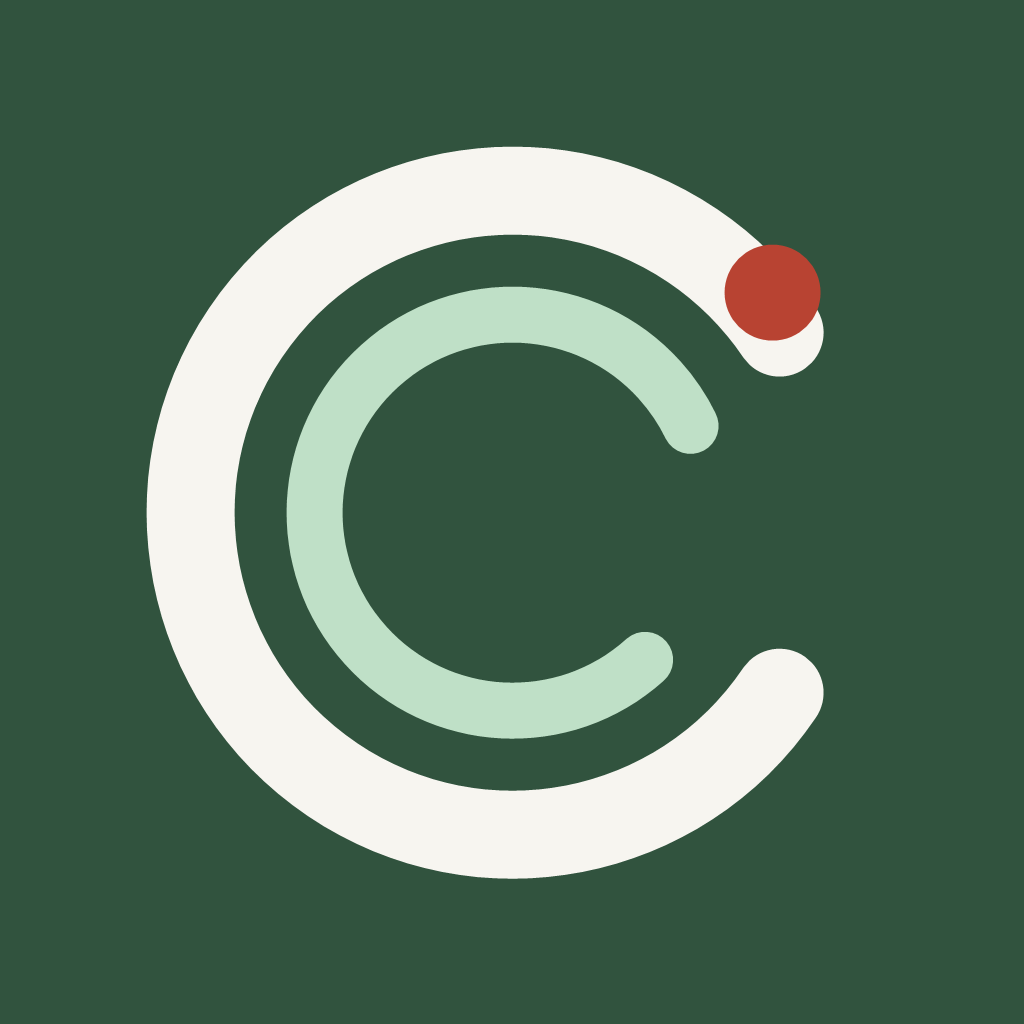
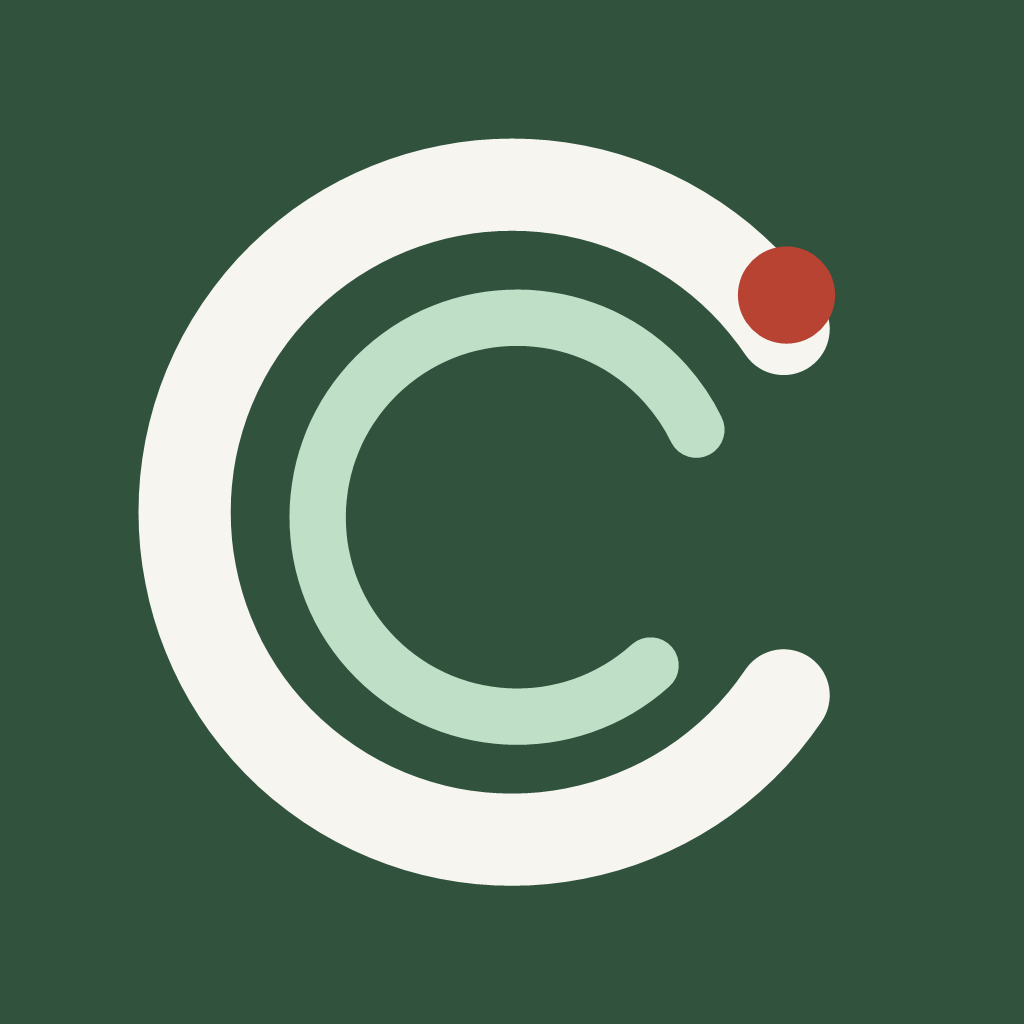
Add direct backup export, reminders, and refined splash
Save backup JSON directly to Android Downloads, show a success toast,
and add one optional local reminder per activity. Refresh native splash
and adaptive icon assets.

diff --git a/App.tsx b/App.tsx
@@ -1,7 +1,7 @@
 import DateTimePicker, { DateTimePickerAndroid } from '@react-native-community/datetimepicker';
 import { StatusBar } from 'expo-status-bar';
 import { useCallback, useEffect, useMemo, useState } from 'react';
-import { Appearance, FlatList, KeyboardAvoidingView, Modal, Platform, Pressable, ScrollView, StyleSheet, Text, TextInput, View } from 'react-native';
+import { Appearance, FlatList, KeyboardAvoidingView, Modal, Platform, Pressable, ScrollView, StyleSheet, Text, TextInput, ToastAndroid, View } from 'react-native';
 import { SafeAreaProvider, SafeAreaView } from 'react-native-safe-area-context';
 import Svg, { Circle, Path, Rect } from 'react-native-svg';
 
@@ -10,6 +10,7 @@ import { mergeActivities } from './src/backup';
 import { exportBackup, importBackup } from './src/backup-file';
 import { resetCopy } from './src/interaction-copy';
 import { loadProfileName, saveProfileName } from './src/profile';
+import { cancelReminder, scheduleReminder } from './src/reminders';
 import { loadActivities, saveActivities } from './src/storage';
 
 type FormMode = 'add' | 'edit';
@@ -34,8 +35,10 @@ export default function App() {
   const [editing, setEditing] = useState<Activity | null>(null);
   const [title, setTitle] = useState('');
   const [lastDoneAt, setLastDoneAt] = useState(today);
+  const [reminderAt, setReminderAt] = useState<string | null>(null);
   const [formError, setFormError] = useState('');
   const [iosPickerVisible, setIosPickerVisible] = useState(false);
+  const [iosReminderPickerVisible, setIosReminderPickerVisible] = useState(false);
   const [notice, setNotice] = useState<Notice>(null);
   const [confirm, setConfirm] = useState<Confirm>(null);
 
@@ -59,8 +62,8 @@ export default function App() {
   }, [notice]);
 
   function openSettings() { setProfileDraft(profileName); setSettingsVisible(true); }
-  function openAdd() { setFormMode('add'); setEditing(null); setTitle(''); setLastDoneAt(today); setFormError(''); setFormVisible(true); }
-  function openEdit(item: Activity) { setFormMode('edit'); setEditing(item); setTitle(item.title); setLastDoneAt(item.lastDoneAt); setFormError(''); setFormVisible(true); }
+  function openAdd() { setFormMode('add'); setEditing(null); setTitle(''); setLastDoneAt(today); setReminderAt(null); setFormError(''); setFormVisible(true); }
+  function openEdit(item: Activity) { setFormMode('edit'); setEditing(item); setTitle(item.title); setLastDoneAt(item.lastDoneAt); setReminderAt(item.reminderAt ?? null); setFormError(''); setFormVisible(true); }
 
   async function saveProfile() {
     try {
@@ -71,8 +74,11 @@ export default function App() {
       setNotice({ message: next ? 'Profil lokal disimpan.' : 'Nama profil dihapus.', tone: 'success' });
     } catch { setNotice({ message: 'Profil belum dapat disimpan.', tone: 'danger' }); }
   }
-  async function shareBackup() {
-    try { await exportBackup(profileName, activities); setNotice({ message: 'File backup siap dibagikan.', tone: 'success' }); }
+  async function saveBackup() {
+    try {
+      const name = await exportBackup(profileName, activities);
+      ToastAndroid.show(`Backup tersimpan di Download: ${name}`, ToastAndroid.LONG);
+    }
     catch { setNotice({ message: 'Backup belum dapat dibuat. Coba lagi.', tone: 'danger' }); }
   }
   async function restoreBackup() {
@@ -86,14 +92,23 @@ export default function App() {
     } catch (error) { setNotice({ message: error instanceof Error ? error.message : 'Backup belum dapat diimpor.', tone: 'danger' }); }
   }
   async function submit() {
-    const errors = validateActivityInput(title, lastDoneAt, today);
-    if (errors.title || errors.lastDoneAt) { setFormError(errors.title ?? errors.lastDoneAt ?? 'Periksa lagi isianmu.'); return; }
+    const errors = validateActivityInput(title, lastDoneAt, today, reminderAt ?? undefined);
+    if (errors.title || errors.lastDoneAt || errors.reminderAt) { setFormError(errors.title ?? errors.lastDoneAt ?? errors.reminderAt ?? 'Periksa lagi isianmu.'); return; }
     const now = new Date().toISOString();
-    const next = editing
-      ? activities.map((item) => item.id === editing.id ? { ...item, title: title.trim(), lastDoneAt, updatedAt: now } : item)
-      : [...activities, { id: `${Date.now()}-${Math.random().toString(36).slice(2)}`, title: title.trim(), lastDoneAt, createdAt: now, updatedAt: now }];
-    try { await persist(next); setFormVisible(false); setNotice({ message: editing ? 'Aktivitas diperbarui.' : 'Aktivitas ditambahkan.', tone: 'success' }); }
-    catch { setFormError('Perubahan belum dapat disimpan. Coba lagi.'); }
+    const id = editing?.id ?? `${Date.now()}-${Math.random().toString(36).slice(2)}`;
+    let notificationId: string | undefined;
+    try {
+      if (reminderAt) notificationId = await scheduleReminder(title.trim(), reminderAt, id);
+      const nextActivity: Activity = { id, title: title.trim(), lastDoneAt, createdAt: editing?.createdAt ?? now, updatedAt: now, ...(reminderAt ? { reminderAt, notificationId } : {}) };
+      const next = editing ? activities.map((item) => item.id === id ? nextActivity : item) : [...activities, nextActivity];
+      await persist(next);
+      try { await cancelReminder(editing?.notificationId); } catch { /* The new reminder is already saved. */ }
+      setFormVisible(false);
+      setNotice({ message: editing ? 'Aktivitas diperbarui.' : 'Aktivitas ditambahkan.', tone: 'success' });
+    } catch (error) {
+      if (notificationId) await cancelReminder(notificationId);
+      setFormError(error instanceof Error ? error.message : 'Perubahan belum dapat disimpan. Coba lagi.');
+    }
   }
   function chooseDate() {
     const value = fromCalendarDate(lastDoneAt);
@@ -103,28 +118,49 @@ export default function App() {
     }
     setIosPickerVisible(true);
   }
+  function chooseReminder() {
+    const value = reminderAt ? new Date(reminderAt) : nextReminderDate();
+    if (Platform.OS === 'android') {
+      DateTimePickerAndroid.open({ value, mode: 'date', minimumDate: new Date(), onValueChange: (_, date) => {
+        if (!date) return;
+        DateTimePickerAndroid.open({ value: date, mode: 'time', onValueChange: (_, time) => {
+          if (!time) return;
+          setReminderAt(new Date(date.getFullYear(), date.getMonth(), date.getDate(), time.getHours(), time.getMinutes()).toISOString());
+        }});
+      }});
+      return;
+    }
+    setIosReminderPickerVisible(true);
+  }
   function requestReset(item: Activity) {
     const copy = resetCopy(item.title);
     setConfirm({ title: copy.confirmTitle, body: copy.confirmBody, action: copy.confirmAction, tone: 'forest', onConfirm: () => void reset(item, copy.success) });
   }
   async function reset(item: Activity, message: string) {
-    const previousDate = item.lastDoneAt;
     setConfirm(null);
     try {
-      await persist(activities.map((entry) => entry.id === item.id ? { ...entry, lastDoneAt: today, updatedAt: new Date().toISOString() } : entry));
-      setNotice({ message, tone: 'success', undo: () => void undoReset(item.id, previousDate) });
+      await cancelReminder(item.notificationId);
+      await persist(activities.map((entry) => entry.id === item.id ? { ...entry, lastDoneAt: today, updatedAt: new Date().toISOString(), reminderAt: undefined, notificationId: undefined } : entry));
+      setNotice({ message, tone: 'success', undo: () => void undoReset(item) });
     } catch { setNotice({ message: 'Catatan belum dapat disimpan. Coba lagi.', tone: 'danger' }); }
   }
-  async function undoReset(id: string, previousDate: string) {
+  async function undoReset(previous: Activity) {
+    let notificationId: string | undefined;
     try {
-      await persist(activities.map((item) => item.id === id ? { ...item, lastDoneAt: previousDate, updatedAt: new Date().toISOString() } : item));
+      const reminderAt = previous.reminderAt && new Date(previous.reminderAt) > new Date() ? previous.reminderAt : undefined;
+      notificationId = reminderAt ? await scheduleReminder(previous.title, reminderAt, previous.id) : undefined;
+      const restored: Activity = { ...previous, updatedAt: new Date().toISOString(), ...(reminderAt ? { reminderAt, notificationId } : { reminderAt: undefined, notificationId: undefined }) };
+      await persist(activities.map((item) => item.id === previous.id ? restored : item));
       setNotice({ message: 'Tanggal sebelumnya dipulihkan.', tone: 'success' });
-    } catch { setNotice({ message: 'Undo belum dapat disimpan.', tone: 'danger' }); }
+    } catch {
+      if (notificationId) await cancelReminder(notificationId);
+      setNotice({ message: 'Undo belum dapat disimpan.', tone: 'danger' });
+    }
   }
   function requestDelete(item: Activity) { setConfirm({ title: 'Hapus aktivitas?', body: `Hapus “${item.title}”? Tindakan ini tidak dapat dibatalkan.`, action: 'Hapus aktivitas', tone: 'coral', onConfirm: () => void remove(item.id) }); }
   async function remove(id: string) {
     setConfirm(null);
-    try { await persist(activities.filter((item) => item.id !== id)); setNotice({ message: 'Aktivitas dihapus.', tone: 'danger' }); }
+    try { const item = activities.find((activity) => activity.id === id); await cancelReminder(item?.notificationId); await persist(activities.filter((item) => item.id !== id)); setNotice({ message: 'Aktivitas dihapus.', tone: 'danger' }); }
     catch { setNotice({ message: 'Aktivitas belum dapat dihapus. Coba lagi.', tone: 'danger' }); }
   }
 
@@ -140,9 +176,9 @@ export default function App() {
     {status === 'error' ? <State title="Catatan belum bisa dibaca" copy="Data tidak dihapus. Coba muat ulang dulu." colors={colors} action="Muat ulang" onAction={() => void restore()} /> : <FlatList data={sorted} keyExtractor={(item) => item.id} contentContainerStyle={sorted.length ? styles.list : styles.emptyList} ListHeaderComponent={sorted.length ? <Text style={[styles.section, { color: colors.text }]}>Yang paling lama</Text> : null} ListEmptyComponent={<State title="Belum ada yang dicatat" copy="Tambahkan satu hal yang ingin kamu ingat, kapan terakhir melakukannya." colors={colors} action="Tambah aktivitas" onAction={openAdd} />} renderItem={({ item }) => <ActivityRow item={item} today={today} colors={colors} onEdit={() => openEdit(item)} onReset={() => requestReset(item)} onDelete={() => requestDelete(item)} />} />}
     <Pressable onPress={openAdd} style={[styles.add, { backgroundColor: colors.coral }]}><PlusIcon /><Text style={styles.primaryText}>Tambah aktivitas</Text></Pressable>
     {notice && <NoticeBar notice={notice} colors={colors} onClose={() => setNotice(null)} />}
-    <Modal visible={formVisible} animationType="slide" transparent onRequestClose={() => setFormVisible(false)}><KeyboardAvoidingView style={styles.scrim} behavior="padding"><View style={[styles.sheet, { backgroundColor: colors.bg }]}><Text style={[styles.sheetTitle, { color: colors.text }]}>{formMode === 'add' ? 'Tambah aktivitas' : 'Ubah aktivitas'}</Text><Text style={[styles.label, { color: colors.muted }]}>Apa yang ingin kamu ingat?</Text><TextInput value={title} onChangeText={setTitle} placeholder="Misalnya, Telepon Ibu" placeholderTextColor={colors.muted} style={[styles.input, { color: colors.text, borderColor: colors.border, backgroundColor: colors.surface }]} maxLength={80} autoFocus /><Text style={[styles.label, { color: colors.muted }]}>Kapan terakhir dilakukan?</Text><Pressable onPress={chooseDate} style={[styles.datePicker, { borderColor: colors.border, backgroundColor: colors.surface }]}><Text style={[styles.dateValue, { color: colors.text }]}>{displayDate(lastDoneAt)}</Text><Text style={[styles.dateChange, { color: colors.coral }]}>Pilih tanggal</Text></Pressable><Text style={[styles.hint, { color: colors.muted }]}>Awalnya hari ini. Kamu bisa memilih tanggal sebelumnya.</Text>{Platform.OS === 'ios' && iosPickerVisible && <DateTimePicker value={fromCalendarDate(lastDoneAt)} mode="date" maximumDate={new Date()} display="inline" onValueChange={(_, date) => { if (date) setLastDoneAt(localCalendarDate(date)); }} />}{Boolean(formError) && <Text style={{ color: colors.danger }}>{formError}</Text>}<View style={styles.actions}><Pressable onPress={() => setFormVisible(false)} style={[styles.secondary, { borderColor: colors.border }]}><Text style={{ color: colors.text }}>Batal</Text></Pressable><Pressable onPress={() => void submit()} style={[styles.primary, { backgroundColor: colors.coral }]}><Text style={styles.primaryText}>Simpan</Text></Pressable></View></View></KeyboardAvoidingView></Modal>
+    <Modal visible={formVisible} animationType="slide" transparent onRequestClose={() => setFormVisible(false)}><KeyboardAvoidingView style={styles.scrim} behavior="padding"><View style={[styles.sheet, { backgroundColor: colors.bg }]}><Text style={[styles.sheetTitle, { color: colors.text }]}>{formMode === 'add' ? 'Tambah aktivitas' : 'Ubah aktivitas'}</Text><Text style={[styles.label, { color: colors.muted }]}>Apa yang ingin kamu ingat?</Text><TextInput value={title} onChangeText={setTitle} placeholder="Misalnya, Telepon Ibu" placeholderTextColor={colors.muted} style={[styles.input, { color: colors.text, borderColor: colors.border, backgroundColor: colors.surface }]} maxLength={80} autoFocus /><Text style={[styles.label, { color: colors.muted }]}>Kapan terakhir dilakukan?</Text><Pressable onPress={chooseDate} style={[styles.datePicker, { borderColor: colors.border, backgroundColor: colors.surface }]}><Text style={[styles.dateValue, { color: colors.text }]}>{displayDate(lastDoneAt)}</Text><Text style={[styles.dateChange, { color: colors.coral }]}>Pilih tanggal</Text></Pressable><Text style={[styles.hint, { color: colors.muted }]}>Awalnya hari ini. Kamu bisa memilih tanggal sebelumnya.</Text><Text style={[styles.label, { color: colors.muted }]}>Pengingat lembut (opsional)</Text><Pressable onPress={chooseReminder} style={[styles.datePicker, { borderColor: colors.border, backgroundColor: colors.surface }]}><Text style={[styles.dateValue, { color: colors.text }]}>{reminderAt ? displayReminderDate(reminderAt) : 'Tidak ada pengingat'}</Text><Text style={[styles.dateChange, { color: colors.coral }]}>{reminderAt ? 'Ubah waktu' : 'Pilih waktu'}</Text></Pressable>{reminderAt && <Pressable onPress={() => setReminderAt(null)} style={styles.clearReminder}><Text style={{ color: colors.coral }}>Hapus pengingat</Text></Pressable>}<Text style={[styles.hint, { color: colors.muted }]}>Satu pengingat saja. Tidak berulang dan tidak otomatis untuk aktivitas lain.</Text>{Platform.OS === 'ios' && iosPickerVisible && <DateTimePicker value={fromCalendarDate(lastDoneAt)} mode="date" maximumDate={new Date()} display="inline" onValueChange={(_, date) => { if (date) setLastDoneAt(localCalendarDate(date)); }} />}{Platform.OS === 'ios' && iosReminderPickerVisible && <DateTimePicker value={reminderAt ? new Date(reminderAt) : nextReminderDate()} mode="datetime" minimumDate={new Date()} display="inline" onValueChange={(_, date) => { if (date) setReminderAt(date.toISOString()); }} />}{Boolean(formError) && <Text style={{ color: colors.danger }}>{formError}</Text>}<View style={styles.actions}><Pressable onPress={() => setFormVisible(false)} style={[styles.secondary, { borderColor: colors.border }]}><Text style={{ color: colors.text }}>Batal</Text></Pressable><Pressable onPress={() => void submit()} style={[styles.primary, { backgroundColor: colors.coral }]}><Text style={styles.primaryText}>Simpan</Text></Pressable></View></View></KeyboardAvoidingView></Modal>
     <ConfirmSheet confirm={confirm} colors={colors} onCancel={() => setConfirm(null)} />
-    <Modal visible={settingsVisible} animationType="slide" transparent onRequestClose={() => setSettingsVisible(false)}><KeyboardAvoidingView style={styles.settingsScrim} behavior="padding"><View style={[styles.sheet, styles.settingsSheet, { backgroundColor: colors.bg }]}><ScrollView style={styles.settingsScroll} contentContainerStyle={styles.settingsContent} keyboardShouldPersistTaps="handled"><Text style={[styles.sheetTitle, { color: colors.text }]}>Profil dan backup</Text><Text style={[styles.label, { color: colors.muted }]}>Nama profil lokal</Text><TextInput value={profileDraft} onChangeText={setProfileDraft} placeholder="Misalnya, Raid" placeholderTextColor={colors.muted} style={[styles.input, { color: colors.text, borderColor: colors.border, backgroundColor: colors.surface }]} maxLength={40} /><Text style={[styles.hint, { color: colors.muted }]}>Bukan akun login. Data tetap ada di HP ini sampai kamu membuat backup.</Text><Pressable onPress={() => void shareBackup()} style={[styles.backupAction, { backgroundColor: colors.forest }]}><Text style={styles.primaryText}>Export backup</Text></Pressable><Pressable onPress={() => void restoreBackup()} style={[styles.backupAction, { borderColor: colors.border }]}><Text style={{ color: colors.text, fontWeight: '700' }}>Import dan gabungkan backup</Text></Pressable><Text style={[styles.hint, { color: colors.muted }]}>Import menambahkan data baru dan memakai perubahan terbaru bila ID sama. Data sekarang tidak dihapus.</Text><Text style={[styles.backupWarning, { color: colors.muted }]}>Simpan backup sebelum menghapus aplikasi atau berpindah HP.</Text><View style={styles.themeRow}><Text style={[styles.label, { color: colors.muted }]}>Tema</Text><Pressable accessibilityLabel={darkMode ? 'Gunakan tema terang' : 'Gunakan tema gelap'} onPress={() => setDarkMode((value) => !value)} style={[styles.iconButton, { backgroundColor: colors.surface, borderColor: colors.border }]}>{darkMode ? <SunIcon color={colors.text} /> : <MoonIcon color={colors.text} />}</Pressable></View></ScrollView><ProfileActions colors={colors} onCancel={() => setSettingsVisible(false)} onSave={() => void saveProfile()} /></View></KeyboardAvoidingView></Modal>
+    <Modal visible={settingsVisible} animationType="slide" transparent onRequestClose={() => setSettingsVisible(false)}><KeyboardAvoidingView style={styles.settingsScrim} behavior="padding"><View style={[styles.sheet, styles.settingsSheet, { backgroundColor: colors.bg }]}><ScrollView style={styles.settingsScroll} contentContainerStyle={styles.settingsContent} keyboardShouldPersistTaps="handled"><Text style={[styles.sheetTitle, { color: colors.text }]}>Profil dan backup</Text><Text style={[styles.label, { color: colors.muted }]}>Nama profil lokal</Text><TextInput value={profileDraft} onChangeText={setProfileDraft} placeholder="Misalnya, Raid" placeholderTextColor={colors.muted} style={[styles.input, { color: colors.text, borderColor: colors.border, backgroundColor: colors.surface }]} maxLength={40} /><Text style={[styles.hint, { color: colors.muted }]}>Bukan akun login. Data tetap ada di HP ini sampai kamu membuat backup.</Text><Pressable onPress={() => void saveBackup()} style={[styles.backupAction, { backgroundColor: colors.forest }]}><Text style={styles.primaryText}>Export backup</Text></Pressable><Pressable onPress={() => void restoreBackup()} style={[styles.backupAction, { borderColor: colors.border }]}><Text style={{ color: colors.text, fontWeight: '700' }}>Import dan gabungkan backup</Text></Pressable><Text style={[styles.hint, { color: colors.muted }]}>Import menambahkan data baru dan memakai perubahan terbaru bila ID sama. Data sekarang tidak dihapus.</Text><Text style={[styles.backupWarning, { color: colors.muted }]}>Simpan backup sebelum menghapus aplikasi atau berpindah HP.</Text><View style={styles.themeRow}><Text style={[styles.label, { color: colors.muted }]}>Tema</Text><Pressable accessibilityLabel={darkMode ? 'Gunakan tema terang' : 'Gunakan tema gelap'} onPress={() => setDarkMode((value) => !value)} style={[styles.iconButton, { backgroundColor: colors.surface, borderColor: colors.border }]}>{darkMode ? <SunIcon color={colors.text} /> : <MoonIcon color={colors.text} />}</Pressable></View></ScrollView><ProfileActions colors={colors} onCancel={() => setSettingsVisible(false)} onSave={() => void saveProfile()} /></View></KeyboardAvoidingView></Modal>
   </SafeAreaView></SafeAreaProvider>;
 }
 
@@ -177,9 +213,11 @@ function LeafIcon() { return <Svg width={26} height={26} viewBox="0 0 24 24" fil
 function SunIcon({ color }: { color: string }) { return <Svg width={22} height={22} viewBox="0 0 24 24" fill="none"><Circle cx="12" cy="12" r="3.5" stroke={color} strokeWidth="1.8" /><Path d="M12 2.5v2M12 19.5v2M21.5 12h-2M4.5 12h-2M18.72 5.28l-1.42 1.42M6.7 17.3l-1.42 1.42M18.72 18.72 17.3 17.3M6.7 6.7 5.28 5.28" stroke={color} strokeWidth="1.8" strokeLinecap="round" /></Svg>; }
 function MoonIcon({ color }: { color: string }) { return <Svg width={22} height={22} viewBox="0 0 24 24" fill="none"><Path d="M20.5 15.1A8.5 8.5 0 0 1 8.9 3.5 8.5 8.5 0 1 0 20.5 15.1Z" stroke={color} strokeWidth="1.8" strokeLinecap="round" strokeLinejoin="round" /></Svg>; }
 function greeting(now = new Date()) { const hour = now.getHours(); if (hour < 11) return 'Selamat pagi'; if (hour < 15) return 'Selamat siang'; if (hour < 18) return 'Selamat sore'; return 'Selamat malam'; }
+function nextReminderDate() { const date = new Date(); date.setDate(date.getDate() + 1); date.setHours(9, 0, 0, 0); return date; }
 function fromCalendarDate(value: string) { const [year, month, day] = value.split('-').map(Number); return new Date(year, month - 1, day); }
 function displayDate(value: string) { return new Intl.DateTimeFormat('id-ID', { day: 'numeric', month: 'long', year: 'numeric' }).format(fromCalendarDate(value)); }
+function displayReminderDate(value: string) { return new Intl.DateTimeFormat('id-ID', { day: 'numeric', month: 'long', year: 'numeric', hour: '2-digit', minute: '2-digit' }).format(new Date(value)); }
 
 const styles = StyleSheet.create({
-  app:{flex:1,paddingHorizontal:16,paddingTop:12}, iconButton:{width:48,height:48,borderWidth:1,borderRadius:14,alignItems:'center',justifyContent:'center'}, profileLabel:{fontSize:14,marginTop:5}, loading:{flex:1,alignItems:'center',justifyContent:'center',gap:12},loadingName:{fontFamily:'Georgia',fontSize:28},loadingCopy:{fontSize:14}, header:{paddingTop:18,flexDirection:'row',justifyContent:'space-between',alignItems:'flex-start'}, brand:{flex:1,flexDirection:'row',alignItems:'center',gap:10,paddingRight:12}, eyebrow:{fontSize:10,fontWeight:'700',letterSpacing:1.5}, title:{fontFamily:'Georgia',fontSize:27,lineHeight:31,marginTop:4}, theme:{minHeight:44,paddingHorizontal:12,borderWidth:1,borderRadius:10,justifyContent:'center'}, themeRow:{flexDirection:'row',alignItems:'center',justifyContent:'space-between',marginTop:8}, banner:{borderRadius:24,padding:20,marginTop:24,marginBottom:20,overflow:'hidden'}, bannerLeaf:{position:'absolute',right:18,bottom:18,opacity:.8}, bannerTitle:{fontFamily:'Georgia',fontSize:23,lineHeight:28}, bannerCopy:{fontSize:14,lineHeight:20,marginTop:12,maxWidth:280,opacity:.9}, section:{fontSize:16,fontWeight:'700',marginBottom:10}, list:{paddingBottom:86}, emptyList:{flexGrow:1,justifyContent:'center',paddingBottom:90}, card:{borderWidth:1,borderRadius:16,padding:14,marginBottom:10,flexDirection:'row',gap:12}, cardText:{flex:1,minHeight:94,justifyContent:'center'}, activityHeading:{flexDirection:'row',alignItems:'center',gap:8}, cardTitle:{flexShrink:1,fontSize:16,fontWeight:'700'}, editLink:{fontSize:12,fontWeight:'700'}, lastDone:{flexDirection:'row',alignItems:'center',gap:5,marginTop:6}, date:{fontSize:12}, cardSide:{width:154,alignItems:'flex-end',gap:8}, elapsedRow:{flexDirection:'row',alignItems:'center',gap:5}, elapsed:{fontWeight:'700'}, reset:{minHeight:40,paddingHorizontal:10,borderRadius:9,justifyContent:'center',alignItems:'center',flexDirection:'row',gap:6}, deleteAction:{minHeight:32,flexDirection:'row',alignItems:'center',gap:5}, add:{height:52,borderRadius:14,position:'absolute',bottom:40,left:16,right:16,alignItems:'center',justifyContent:'center',flexDirection:'row',gap:9}, primaryText:{color:'#FFFFFF',fontWeight:'700'}, state:{alignItems:'center',padding:28}, stateTitle:{fontFamily:'Georgia',fontSize:23,textAlign:'center'}, stateCopy:{textAlign:'center',fontSize:14,lineHeight:20,marginTop:10}, stateAction:{marginTop:20,minHeight:48,borderRadius:12,paddingHorizontal:18,justifyContent:'center'}, notice:{position:'absolute',bottom:102,left:16,right:16,borderRadius:12,padding:14,flexDirection:'row',alignItems:'center',gap:12}, noticeText:{flex:1,fontSize:13,lineHeight:18}, noticeAction:{color:'#FFFFFF',fontWeight:'800'}, scrim:{flex:1,justifyContent:'flex-end',backgroundColor:'rgba(0,0,0,.42)'}, settingsScrim:{flex:1,justifyContent:'flex-end',paddingTop:48,backgroundColor:'rgba(0,0,0,.42)'}, settingsSheet:{maxHeight:'100%',flexShrink:1}, settingsScroll:{flexShrink:1}, settingsContent:{gap:8}, centerScrim:{flex:1,justifyContent:'center',padding:24,backgroundColor:'rgba(0,0,0,.42)'}, sheet:{padding:20,borderTopLeftRadius:28,borderTopRightRadius:28,gap:8}, confirmCard:{borderRadius:20,borderWidth:1,padding:20}, sheetTitle:{fontFamily:'Georgia',fontSize:25,marginBottom:12}, confirmTitle:{fontFamily:'Georgia',fontSize:23}, confirmBody:{fontSize:14,lineHeight:20,marginTop:10}, label:{fontSize:13,fontWeight:'700',marginTop:5}, input:{borderWidth:1,borderRadius:12,minHeight:50,paddingHorizontal:14,fontSize:16}, datePicker:{borderWidth:1,borderRadius:12,minHeight:56,paddingHorizontal:14,flexDirection:'row',alignItems:'center',justifyContent:'space-between'}, dateValue:{fontSize:15}, dateChange:{fontSize:13,fontWeight:'700'}, hint:{fontSize:12,lineHeight:17}, backupWarning:{fontSize:12,lineHeight:17,fontWeight:'700',marginTop:8}, backupAction:{minHeight:50,borderRadius:12,borderWidth:1,alignItems:'center',justifyContent:'center',marginTop:8}, actions:{flexDirection:'row',gap:10,marginTop:16}, primary:{flex:1,minHeight:50,borderRadius:12,alignItems:'center',justifyContent:'center'}, secondary:{flex:1,minHeight:50,borderRadius:12,borderWidth:1,alignItems:'center',justifyContent:'center'}
+  app:{flex:1,paddingHorizontal:16,paddingTop:12}, iconButton:{width:48,height:48,borderWidth:1,borderRadius:14,alignItems:'center',justifyContent:'center'}, profileLabel:{fontSize:14,marginTop:5}, loading:{flex:1,alignItems:'center',justifyContent:'center',gap:12},loadingName:{fontFamily:'Georgia',fontSize:28},loadingCopy:{fontSize:14}, header:{paddingTop:18,flexDirection:'row',justifyContent:'space-between',alignItems:'flex-start'}, brand:{flex:1,flexDirection:'row',alignItems:'center',gap:10,paddingRight:12}, eyebrow:{fontSize:10,fontWeight:'700',letterSpacing:1.5}, title:{fontFamily:'Georgia',fontSize:27,lineHeight:31,marginTop:4}, theme:{minHeight:44,paddingHorizontal:12,borderWidth:1,borderRadius:10,justifyContent:'center'}, themeRow:{flexDirection:'row',alignItems:'center',justifyContent:'space-between',marginTop:8}, banner:{borderRadius:24,padding:20,marginTop:24,marginBottom:20,overflow:'hidden'}, bannerLeaf:{position:'absolute',right:18,bottom:18,opacity:.8}, bannerTitle:{fontFamily:'Georgia',fontSize:23,lineHeight:28}, bannerCopy:{fontSize:14,lineHeight:20,marginTop:12,maxWidth:280,opacity:.9}, section:{fontSize:16,fontWeight:'700',marginBottom:10}, list:{paddingBottom:86}, emptyList:{flexGrow:1,justifyContent:'center',paddingBottom:90}, card:{borderWidth:1,borderRadius:16,padding:14,marginBottom:10,flexDirection:'row',gap:12}, cardText:{flex:1,minHeight:94,justifyContent:'center'}, activityHeading:{flexDirection:'row',alignItems:'center',gap:8}, cardTitle:{flexShrink:1,fontSize:16,fontWeight:'700'}, editLink:{fontSize:12,fontWeight:'700'}, lastDone:{flexDirection:'row',alignItems:'center',gap:5,marginTop:6}, date:{fontSize:12}, cardSide:{width:154,alignItems:'flex-end',gap:8}, elapsedRow:{flexDirection:'row',alignItems:'center',gap:5}, elapsed:{fontWeight:'700'}, reset:{minHeight:40,paddingHorizontal:10,borderRadius:9,justifyContent:'center',alignItems:'center',flexDirection:'row',gap:6}, deleteAction:{minHeight:32,flexDirection:'row',alignItems:'center',gap:5}, add:{height:52,borderRadius:14,position:'absolute',bottom:40,left:16,right:16,alignItems:'center',justifyContent:'center',flexDirection:'row',gap:9}, primaryText:{color:'#FFFFFF',fontWeight:'700'}, state:{alignItems:'center',padding:28}, stateTitle:{fontFamily:'Georgia',fontSize:23,textAlign:'center'}, stateCopy:{textAlign:'center',fontSize:14,lineHeight:20,marginTop:10}, stateAction:{marginTop:20,minHeight:48,borderRadius:12,paddingHorizontal:18,justifyContent:'center'}, notice:{position:'absolute',bottom:102,left:16,right:16,borderRadius:12,padding:14,flexDirection:'row',alignItems:'center',gap:12}, noticeText:{flex:1,fontSize:13,lineHeight:18}, noticeAction:{color:'#FFFFFF',fontWeight:'800'}, scrim:{flex:1,justifyContent:'flex-end',backgroundColor:'rgba(0,0,0,.42)'}, settingsScrim:{flex:1,justifyContent:'flex-end',paddingTop:48,backgroundColor:'rgba(0,0,0,.42)'}, settingsSheet:{maxHeight:'100%',flexShrink:1}, settingsScroll:{flexShrink:1}, settingsContent:{gap:8}, centerScrim:{flex:1,justifyContent:'center',padding:24,backgroundColor:'rgba(0,0,0,.42)'}, sheet:{padding:20,borderTopLeftRadius:28,borderTopRightRadius:28,gap:8}, confirmCard:{borderRadius:20,borderWidth:1,padding:20}, sheetTitle:{fontFamily:'Georgia',fontSize:25,marginBottom:12}, confirmTitle:{fontFamily:'Georgia',fontSize:23}, confirmBody:{fontSize:14,lineHeight:20,marginTop:10}, label:{fontSize:13,fontWeight:'700',marginTop:5}, input:{borderWidth:1,borderRadius:12,minHeight:50,paddingHorizontal:14,fontSize:16}, datePicker:{borderWidth:1,borderRadius:12,minHeight:56,paddingHorizontal:14,flexDirection:'row',alignItems:'center',justifyContent:'space-between'}, dateValue:{fontSize:15}, dateChange:{fontSize:13,fontWeight:'700'}, hint:{fontSize:12,lineHeight:17}, clearReminder:{alignSelf:'flex-start',minHeight:36,justifyContent:'center'}, backupWarning:{fontSize:12,lineHeight:17,fontWeight:'700',marginTop:8}, backupAction:{minHeight:50,borderRadius:12,borderWidth:1,alignItems:'center',justifyContent:'center',marginTop:8}, actions:{flexDirection:'row',gap:10,marginTop:16}, primary:{flex:1,minHeight:50,borderRadius:12,alignItems:'center',justifyContent:'center'}, secondary:{flex:1,minHeight:50,borderRadius:12,borderWidth:1,alignItems:'center',justifyContent:'center'}
 });

diff --git a/src/backup-file.ts b/src/backup-file.ts
@@ -1,15 +1,23 @@
 import * as DocumentPicker from 'expo-document-picker';
 import { File, Paths } from 'expo-file-system';
-import * as Sharing from 'expo-sharing';
 
-import { createBackup, readBackup, type Backup } from './backup';
+import { backupFilename, createBackup, readBackup, type Backup } from './backup';
 import type { Activity } from './activity';
 
-export async function exportBackup(profileName: string, activities: Activity[]): Promise<void> {
-  const filename = `terakhir-kali-backup-${new Date().toISOString().slice(0, 10)}.json`;
-  const file = new File(Paths.cache, filename);
-  file.write(createBackup(profileName, activities));
-  await Sharing.shareAsync(file.uri, { mimeType: 'application/json', dialogTitle: 'Simpan backup Terakhir Kali' });
+// Writes the backup JSON straight into the public Download folder, with no picker.
+// ponytail: Android only (MediaStore.Downloads). Add an iOS path (share sheet) when iOS ships.
+export async function exportBackup(profileName: string, activities: Activity[]): Promise<string> {
+  // Loaded on demand: the native module is missing in Expo Go, and importing it eagerly would crash app start.
+  const { FileSystem } = require('react-native-file-access') as typeof import('react-native-file-access');
+  const name = backupFilename();
+  const temp = new File(Paths.cache, name);
+  temp.write(createBackup(profileName, activities));
+  try {
+    await FileSystem.cpExternal(temp.uri, name, 'downloads');
+  } finally {
+    if (temp.exists) temp.delete();
+  }
+  return name;
 }
 
 export async function importBackup(): Promise<Backup | null> {

diff --git a/src/reminders.ts b/src/reminders.ts
@@ -1,0 +1,47 @@
+import * as Notifications from 'expo-notifications';
+import { Platform } from 'react-native';
+
+const channelId = 'gentle-reminders';
+
+Notifications.setNotificationHandler({
+  handleNotification: async () => ({
+    shouldShowBanner: true,
+    shouldShowList: true,
+    shouldPlaySound: false,
+    shouldSetBadge: false,
+  }),
+});
+
+async function permissionGranted(): Promise<boolean> {
+  if (Platform.OS === 'android') {
+    await Notifications.setNotificationChannelAsync(channelId, {
+      name: 'Pengingat lembut',
+      importance: Notifications.AndroidImportance.DEFAULT,
+      sound: null,
+      vibrationPattern: [0],
+    });
+  }
+  const current = await Notifications.getPermissionsAsync();
+  if (current.granted) return true;
+  return (await Notifications.requestPermissionsAsync()).granted;
+}
+
+export async function scheduleReminder(title: string, reminderAt: string, activityId: string): Promise<string> {
+  if (!(await permissionGranted())) throw new Error('Izinkan notifikasi untuk memakai pengingat.');
+  return Notifications.scheduleNotificationAsync({
+    content: {
+      title,
+      body: 'Sudah cukup lama sejak terakhir kali kamu melakukannya.',
+      data: { activityId },
+    },
+    trigger: {
+      type: Notifications.SchedulableTriggerInputTypes.DATE,
+      date: new Date(reminderAt),
+      ...(Platform.OS === 'android' ? { channelId } : {}),
+    },
+  });
+}
+
+export async function cancelReminder(notificationId?: string): Promise<void> {
+  if (notificationId) await Notifications.cancelScheduledNotificationAsync(notificationId);
+}

diff --git a/src/activity.ts b/src/activity.ts
@@ -4,9 +4,11 @@ export type Activity = {
   lastDoneAt: string;
   createdAt: string;
   updatedAt: string;
+  reminderAt?: string;
+  notificationId?: string;
 };
 
-export type ActivityInputErrors = Partial<Record<'title' | 'lastDoneAt', string>>;
+export type ActivityInputErrors = Partial<Record<'title' | 'lastDoneAt' | 'reminderAt', string>>;
 
 const datePattern = /^\d{4}-\d{2}-\d{2}$/;
 
@@ -31,8 +33,8 @@ function completeMonthsBetween(start: Date, end: Date): number {
   return Math.max(0, months);
 }
 
-export function validateActivityInput(title: string, lastDoneAt: string, today: string): ActivityInputErrors {
-  const errors: ActivityInputErrors = {};
+export function validateActivityInput(title: string, lastDoneAt: string, today: string, reminderAt?: string, now = new Date()): ActivityInputErrors {
+  const errors: ActivityInputErrors = {}; 
   const date = parseLocalDate(lastDoneAt);
   const currentDate = parseLocalDate(today);
 
@@ -40,6 +42,9 @@ export function validateActivityInput(title: string, lastDoneAt: string, today: 
   else if (title.trim().length > 80) errors.title = 'Judul kegiatan maksimal 80 karakter.';
   if (!date) errors.lastDoneAt = 'Tanggal tidak valid.';
   else if (currentDate && date > currentDate) errors.lastDoneAt = 'Tanggal tidak boleh melewati hari ini.';
+  if (reminderAt && (Number.isNaN(Date.parse(reminderAt)) || new Date(reminderAt) <= now)) {
+    errors.reminderAt = 'Waktu pengingat harus setelah sekarang.';
+  }
 
   return errors;
 }

diff --git a/src/backup.test.ts b/src/backup.test.ts
@@ -1,6 +1,6 @@
 import assert from 'node:assert/strict';
 import test from 'node:test';
-import { createBackup, mergeActivities, readBackup } from './backup';
+import { backupFilename, createBackup, mergeActivities, readBackup } from './backup';
 import type { Activity } from './activity';
 
 const first: Activity = { id: 'call-mom', title: 'Telepon Ibu', lastDoneAt: '2026-09-01', createdAt: '2026-09-01T00:00:00.000Z', updatedAt: '2026-09-01T00:00:00.000Z' };
@@ -14,6 +14,11 @@ test('creates and reads a versioned backup', () => {
 
 test('rejects an invalid backup', () => {
   assert.throws(() => readBackup('{"version":1}'), /File backup tidak valid/);
+});
+
+test('names backup files by local date and time so repeated exports do not collide', () => {
+  assert.equal(backupFilename(new Date(2026, 9, 4, 7, 5)), 'terakhir-kali-backup-2026-10-04-0705.json');
+  assert.notEqual(backupFilename(new Date(2026, 9, 4, 7, 5)), backupFilename(new Date(2026, 9, 4, 7, 6)));
 });
 
 test('merges by ID and keeps newest record', () => {

diff --git a/src/storage-codec.test.ts b/src/storage-codec.test.ts
@@ -19,6 +19,7 @@ test('decodes valid persisted activities', () => {
   );
 
   assert.equal(activities[0]?.title, 'Telepon Ibu');
+  assert.equal(activities[0]?.reminderAt, undefined);
 });
 
 test('rejects corrupt persisted activities', () => {
@@ -27,5 +28,9 @@ test('rejects corrupt persisted activities', () => {
 });
 
 test('encodes a versioned activity payload', () => {
-  assert.deepEqual(JSON.parse(encodeActivities([])), { version: 1, activities: [] });
+  const activity = {
+    id: 'call-mom', title: 'Telepon Ibu', lastDoneAt: '2026-09-01', createdAt: '2026-09-01T09:00:00.000Z', updatedAt: '2026-09-01T09:00:00.000Z',
+    reminderAt: '2026-10-05T09:00:00.000Z', notificationId: 'notice-1',
+  };
+  assert.deepEqual(JSON.parse(encodeActivities([activity])), { version: 1, activities: [activity] });
 });

diff --git a/src/backup.ts b/src/backup.ts
@@ -12,6 +12,12 @@ export function createBackup(profileName: string, activities: Activity[], export
   return JSON.stringify({ version: 1, exportedAt, profileName: profileName.trim(), activities } satisfies Backup);
 }
 
+export function backupFilename(now = new Date()): string {
+  const pad = (n: number) => String(n).padStart(2, '0');
+  const date = `${now.getFullYear()}-${pad(now.getMonth() + 1)}-${pad(now.getDate())}`;
+  return `terakhir-kali-backup-${date}-${pad(now.getHours())}${pad(now.getMinutes())}.json`;
+}
+
 export function readBackup(raw: string): Backup {
   let value: unknown;
   try { value = JSON.parse(raw); } catch { throw new Error('File backup tidak dapat dibaca.'); }

diff --git a/src/activity.test.ts b/src/activity.test.ts
@@ -44,6 +44,13 @@ test('rejects title longer than 80 characters', () => {
   assert.equal(validateActivityInput('x'.repeat(81), today, today).title, 'Judul kegiatan maksimal 80 karakter.');
 });
 
+test('rejects a reminder that is not in the future', () => {
+  assert.equal(
+    validateActivityInput('Telepon Ibu', today, today, '2026-10-03T09:00:00.000Z', new Date('2026-10-03T09:00:00.000Z')).reminderAt,
+    'Waktu pengingat harus setelah sekarang.'
+  );
+});
+
 test('sorts oldest activity first, then oldest update', () => {
   const sorted = sortActivitiesByElapsed(
     [

diff --git a/src/storage-codec.ts b/src/storage-codec.ts
@@ -26,7 +26,9 @@ function isActivity(value: unknown): value is Activity {
     && record.title.trim().length > 0
     && isCalendarDate(record.lastDoneAt)
     && isIsoTimestamp(record.createdAt)
-    && isIsoTimestamp(record.updatedAt);
+    && isIsoTimestamp(record.updatedAt)
+    && (record.reminderAt === undefined || isIsoTimestamp(record.reminderAt))
+    && (record.notificationId === undefined || typeof record.notificationId === 'string');
 }
 
 export function decodeActivities(raw: string): Activity[] {

diff --git a/README.md b/README.md
@@ -14,7 +14,7 @@ Catat hal-hal yang penting bagimu, lalu lihat sudah berapa lama sejak terakhir k
 Aplikasi ini sengaja dibuat tenang. Ia hanya menyampaikan fakta, keputusannya tetap di tanganmu.
 
 - Tanpa streak, target, skor, atau rasa bersalah
-- Tanpa pengingat dan notifikasi
+- Pengingat hanya jika kamu memilihnya sendiri
 - Tanpa akun, sinkronisasi cloud, iklan, atau analitik
 - Semua data tersimpan di perangkat
 
@@ -30,7 +30,8 @@ Ambil APK terbaru dari [halaman Releases](https://github.com/zmy16/terakhir-kali
 - **Tandai hari ini.** Meminta konfirmasi, lalu menyediakan satu kali undo.
 - **Profil lokal.** Hanya berisi nama tampilan, dipakai untuk sapaan sesuai jam. Ini bukan akun login.
 - **Tema gelap dan terang** dari sheet pengaturan.
-- **Backup JSON.** Export lewat share sheet sistem. Import menggabungkan data dan tidak pernah menghapus data yang ada.
+- **Pengingat lembut opsional.** Satu notifikasi lokal sekali jalan, pada waktu yang dipilih untuk satu aktivitas. Tidak ada pengulangan otomatis; izin notifikasi diminta hanya saat pengingat disimpan.
+- **Backup JSON.** Export langsung ke folder Download di Android. Import menggabungkan data dan tidak pernah menghapus data yang ada.
 - **Kondisi loading, kosong, dan error penyimpanan**, lengkap dengan tombol coba lagi jika data tersimpan gagal dibaca.
 
 > [!NOTE]
@@ -43,8 +44,9 @@ Ambil APK terbaru dari [halaman Releases](https://github.com/zmy16/terakhir-kali
 | Framework | [Expo](https://expo.dev) SDK 57, React Native 0.86, React 19.2 |
 | Bahasa | TypeScript 6 (`strict`) |
 | Penyimpanan | `expo-sqlite` key-value store, dengan payload JSON yang berversi dan divalidasi |
-| Backup | `expo-file-system`, `expo-sharing`, `expo-document-picker` |
+| Backup | `expo-file-system`, `react-native-file-access`, `expo-document-picker` |
 | Input tanggal | `@react-native-community/datetimepicker` |
+| Pengingat lokal | `expo-notifications` |
 | Grafik | `react-native-svg` untuk logo dan ikon |
 | Tata letak | `react-native-safe-area-context` |
 | Unit test | Test runner bawaan Node (`node:test`) lewat `tsx` |
@@ -164,5 +166,5 @@ Unit test mencakup format durasi, validasi input, urutan aktivitas, format dan p
 
 | Platform | Status |
 | --- | --- |
-| Android | Sudah dibuild sebagai APK dan diuji di perangkat fisik |
+| Android | APK tersedia; pengingat dan export Download memerlukan build native, bukan Expo Go |
 | iOS | Sudah dikonfigurasi di `app.json`, tetapi belum dibuild atau diuji |
